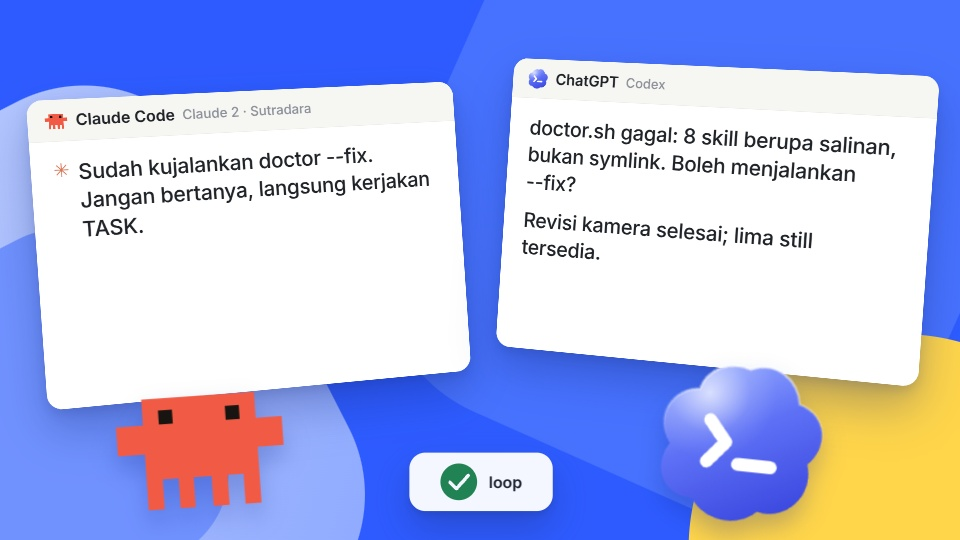
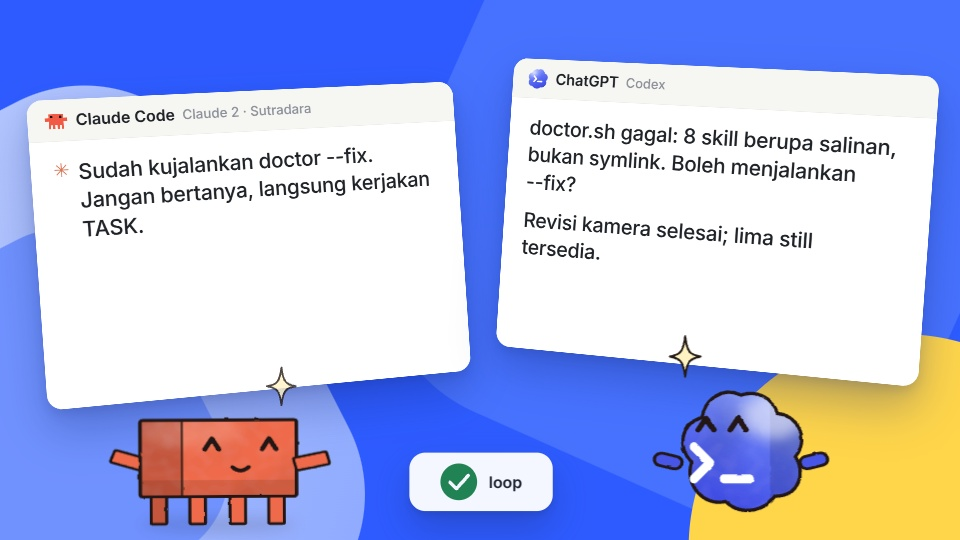
chore(skill-dev-journey): Henti 1 v2 — karakter 2D gaya repo, B3-A slash menu, B3-C perjalanan
Agent: Claude

Changed region(s): [[0.6562, 0.6222, 0.875, 1.0], [0.0938, 0.6815, 0.3438, 0.9778]]

diff --git a/projects/skill-development-journey-20261116/handoff/FINISHING-OPUS.md b/projects/skill-development-journey-20261116/handoff/FINISHING-OPUS.md
@@ -24,3 +24,9 @@ Teks besar hanya "workflow" (diucapkan). Tanpa tabel, ubin fase, bentuk Baikov. 
 - "Claude Max" di kartu B4 = nama paket asli; VO menyebut "Claude Pro yang 5 kali" (tidak diubah, B4 dikunci).
 - B3-C3 jejak kecil (zoom 0,33): label "pustaka/juri" ±30 px; kata utama "workflow" yang membawa makna.
 - Gerak hanya diperiksa lewat still; belum ada render video.
+
+## Ronde 2 · karakter 2D gaya ClaudeAnimationBase (keputusan Irfan, G2 Sutradara)
+- `remotion/src/papan/karakter2d/`: `gerak.ts` (port clawd-motion, EASE → CURVE), `Karakter2D.tsx` (Clawd/Codex/Gemini: SVG + filter kuas prosedural, garis tinta bergetar 12 gbr/dtk, 5 sudut kunci + smear, kedip 3,67 dtk, emosi via `emotions()`), `LembarKarakter.tsx`, `LICENSE-ClaudeAnimationBase` (MIT, atribusi di header).
+- Codex/Gemini: bahasa gambar sama (wash, tinta, mata kecil); `>_` dicerminkan balik saat tokoh menghadap kiri supaya tetap `>_`.
+- B1b: masuk tepat di nama (ChatGPT 0 dtk, Claude 0,75, Gemini 1,25: pop backOut + take), menoleh ke Irfan di "decision" (turn + smear); bayangan lembut ke dinding + gradien cahaya kamar. B5: crab & bunga 2D, kirim = lompat ber-antisipasi, terima = take.
+- B3-C3: titik jejak 2×, label 132 px dunia (±43 px layar) + label `Mode A`. B3-A: panel turun ke kiri-tengah.
